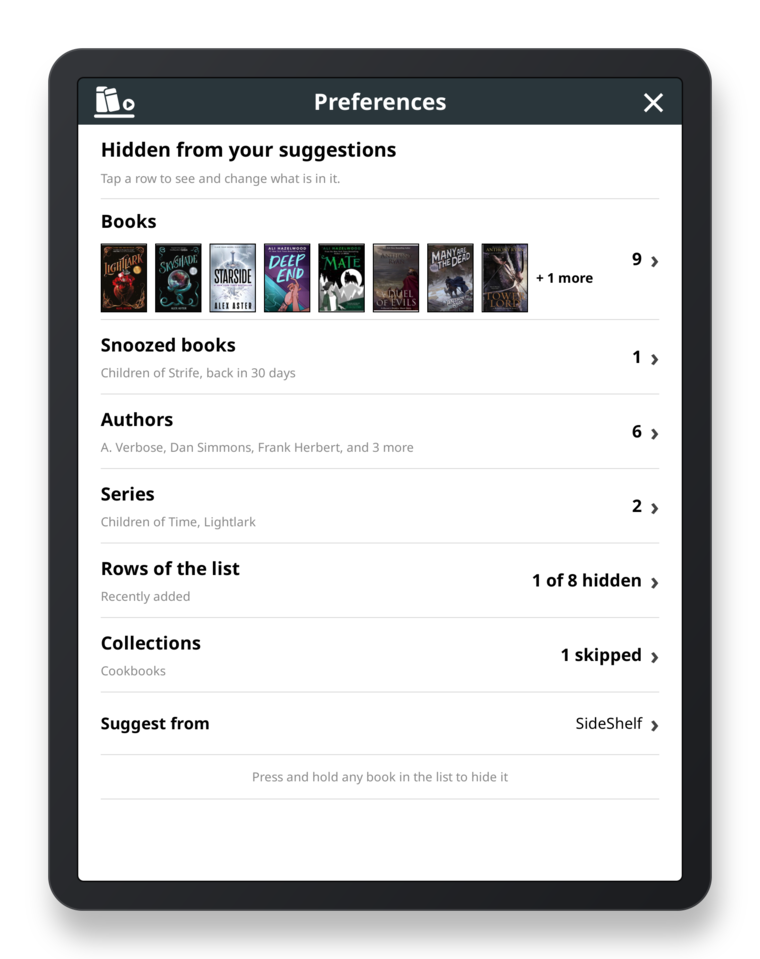
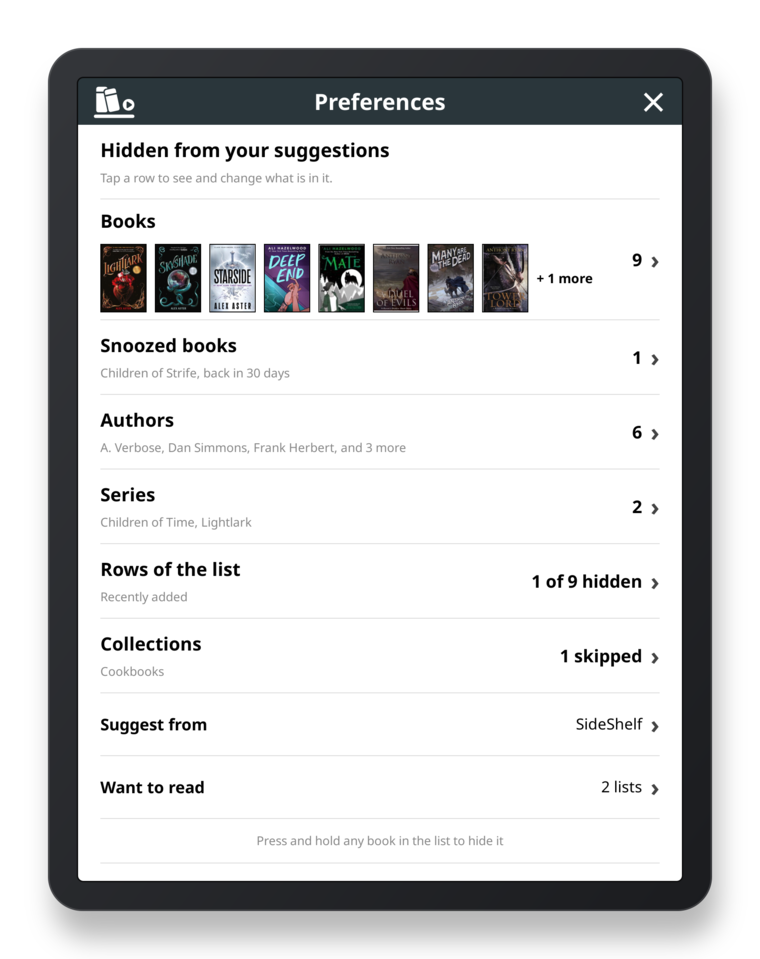
fix: the Want to read row is one row of three across; retake the screenshots it and Preferences changed

diff --git a/README.md b/README.md
@@ -76,13 +76,14 @@ Everything you have hidden is in **Preferences**, from Tools › Afterword or by
 Afterword can favour the books on your want-to-read shelf. In **Preferences › Want to read**, **Import a list from a file…** reads a CSV exported from Goodreads (My Books › Import and export › Export Library) or from StoryGraph's export page, or any CSV with a Title and an Author column, and keeps only the books on its to-read shelf. Each service keeps its own list, and importing one again replaces only that one. It asks first, saying how many of the books are in your library. Books are matched to your library by title and the author's surname, ignoring a leading "The", a subtitle and the series Goodreads puts in brackets. Nothing is sent anywhere: Afterword only reads the file.
 
 - **Books you have** are tagged **TBR**, and the pick for you is one of them (with the line "On your want-to-read list"). They also come first in Recently added. Switch off **Rank books on my lists higher** to keep the tag and nothing else.
-- **Books you don't have** appear only if you switch on **Show books I don't own**: a **Want to read** row of up to four, each with an empty frame where a cover would be. There is nothing to open, so tapping one offers a sheet that says so, and a way to switch the row off again.
+- **Books you don't have** appear only if you switch on **Show books I don't own**: a **Want to read** row of up to three books side by side, each with an empty frame where a cover would be. There is nothing to open, so tapping one offers a sheet that says so, and a way to switch the row off again.
 - **Hardcover.** **Connect a service…** opens the Hardcover screen; nothing about Hardcover shows anywhere else until you have connected it. On hardcover.app/account/api choose **New API Key** and, under Permissions, select **`read:library`** (your want-to-read entries, public or private), **`read:catalog`** and **`read:me:content`** (just your public profile: leave out the email and roles scopes ticked along with `read:me`); nothing else is needed to sync. Create the key, copy it (Hardcover shows it once) and paste it into the field there: the dialog hides it as it is entered (with a Show password box), and Afterword tries it at once. A token Hardcover refuses is not kept. Then **Sync now** fetches your want-to-read shelf, when you ask and never in the background, and keeps it as its own list beside the others, with its own tab. The token is kept on the device, never shown, and sent only to Hardcover; **Change token…** replaces it, and **Disconnect** forgets the list and deletes the token. If a sync fails, the last good list stays.
 - **Browsing a list.** Tap a list in Want to read to browse it, with a tab for **All** (every list merged, books you have first) and one for each list. A book you have opens when you tap it. A list's tab has **Import again** and **Remove this list**, which asks first and forgets the list here only.
 
 <p align="center">
-  <img src="assets/want-to-read-picks.png" width="400" alt="The list with a book picked from the want-to-read list, a small TBR pill on a book in Recently added, and a Want to read row of two books with empty frames in place of covers">
+  <img src="assets/want-to-read-picks.png" width="400" alt="The list with a book picked from the want-to-read list, a small TBR pill on a book in Recently added, and a Want to read row of three books side by side with empty frames in place of covers">
   <img src="assets/want-to-read.png" width="400" alt="Browsing the want-to-read lists: tabs for All, Goodreads and StoryGraph, then each book with its cover or an empty frame, a GR or SG mark, and whether it is on the device">
+  <img src="assets/want-to-read-hardcover.png" width="400" alt="The Hardcover screen before it is connected: three steps for making a key with the right permissions, then a field reading Paste your token">
 </p>
 
 ## Settings
